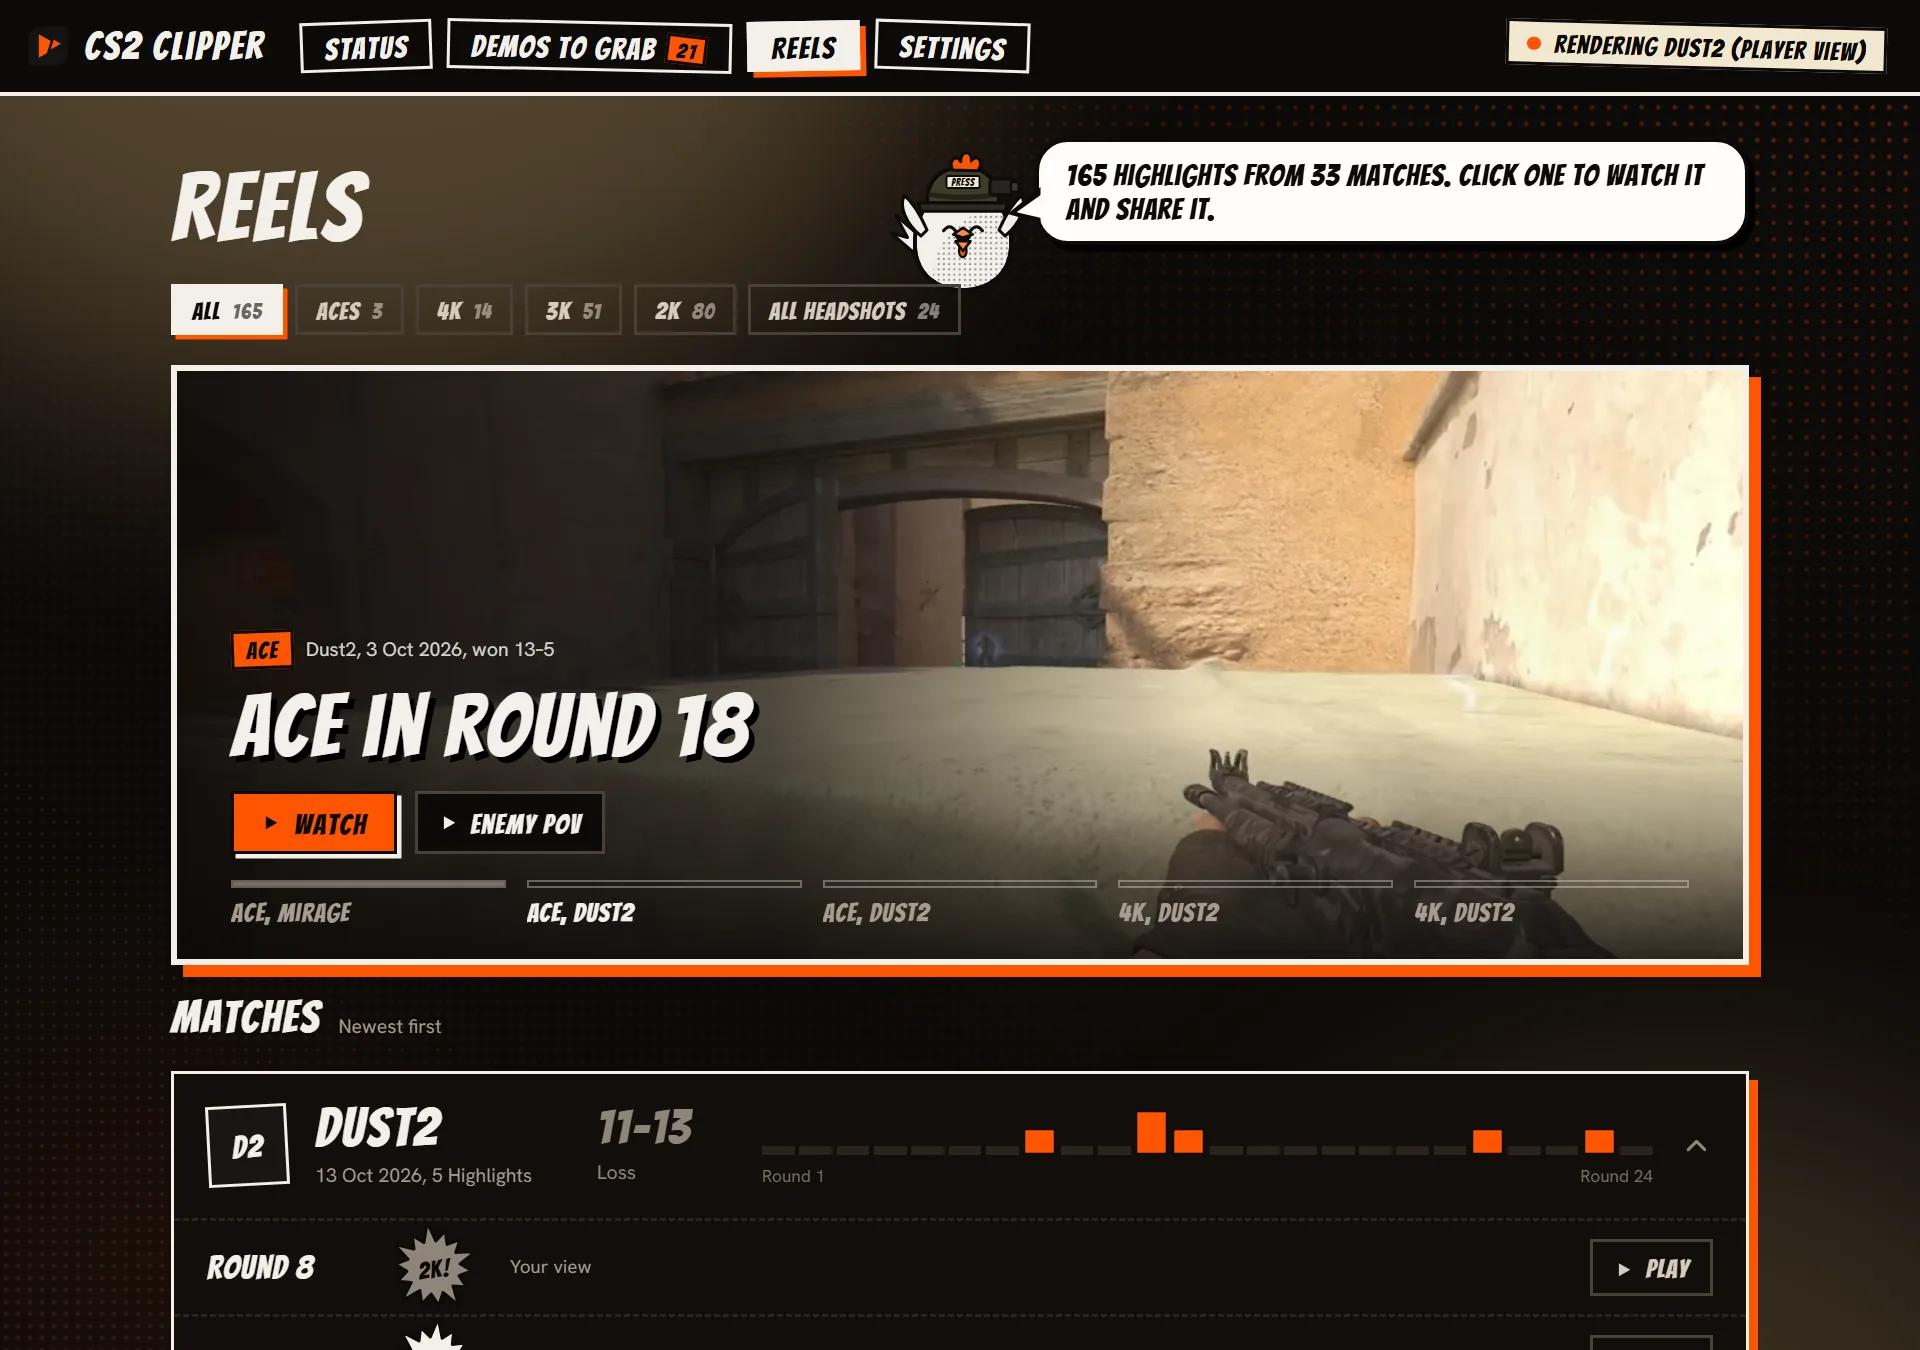
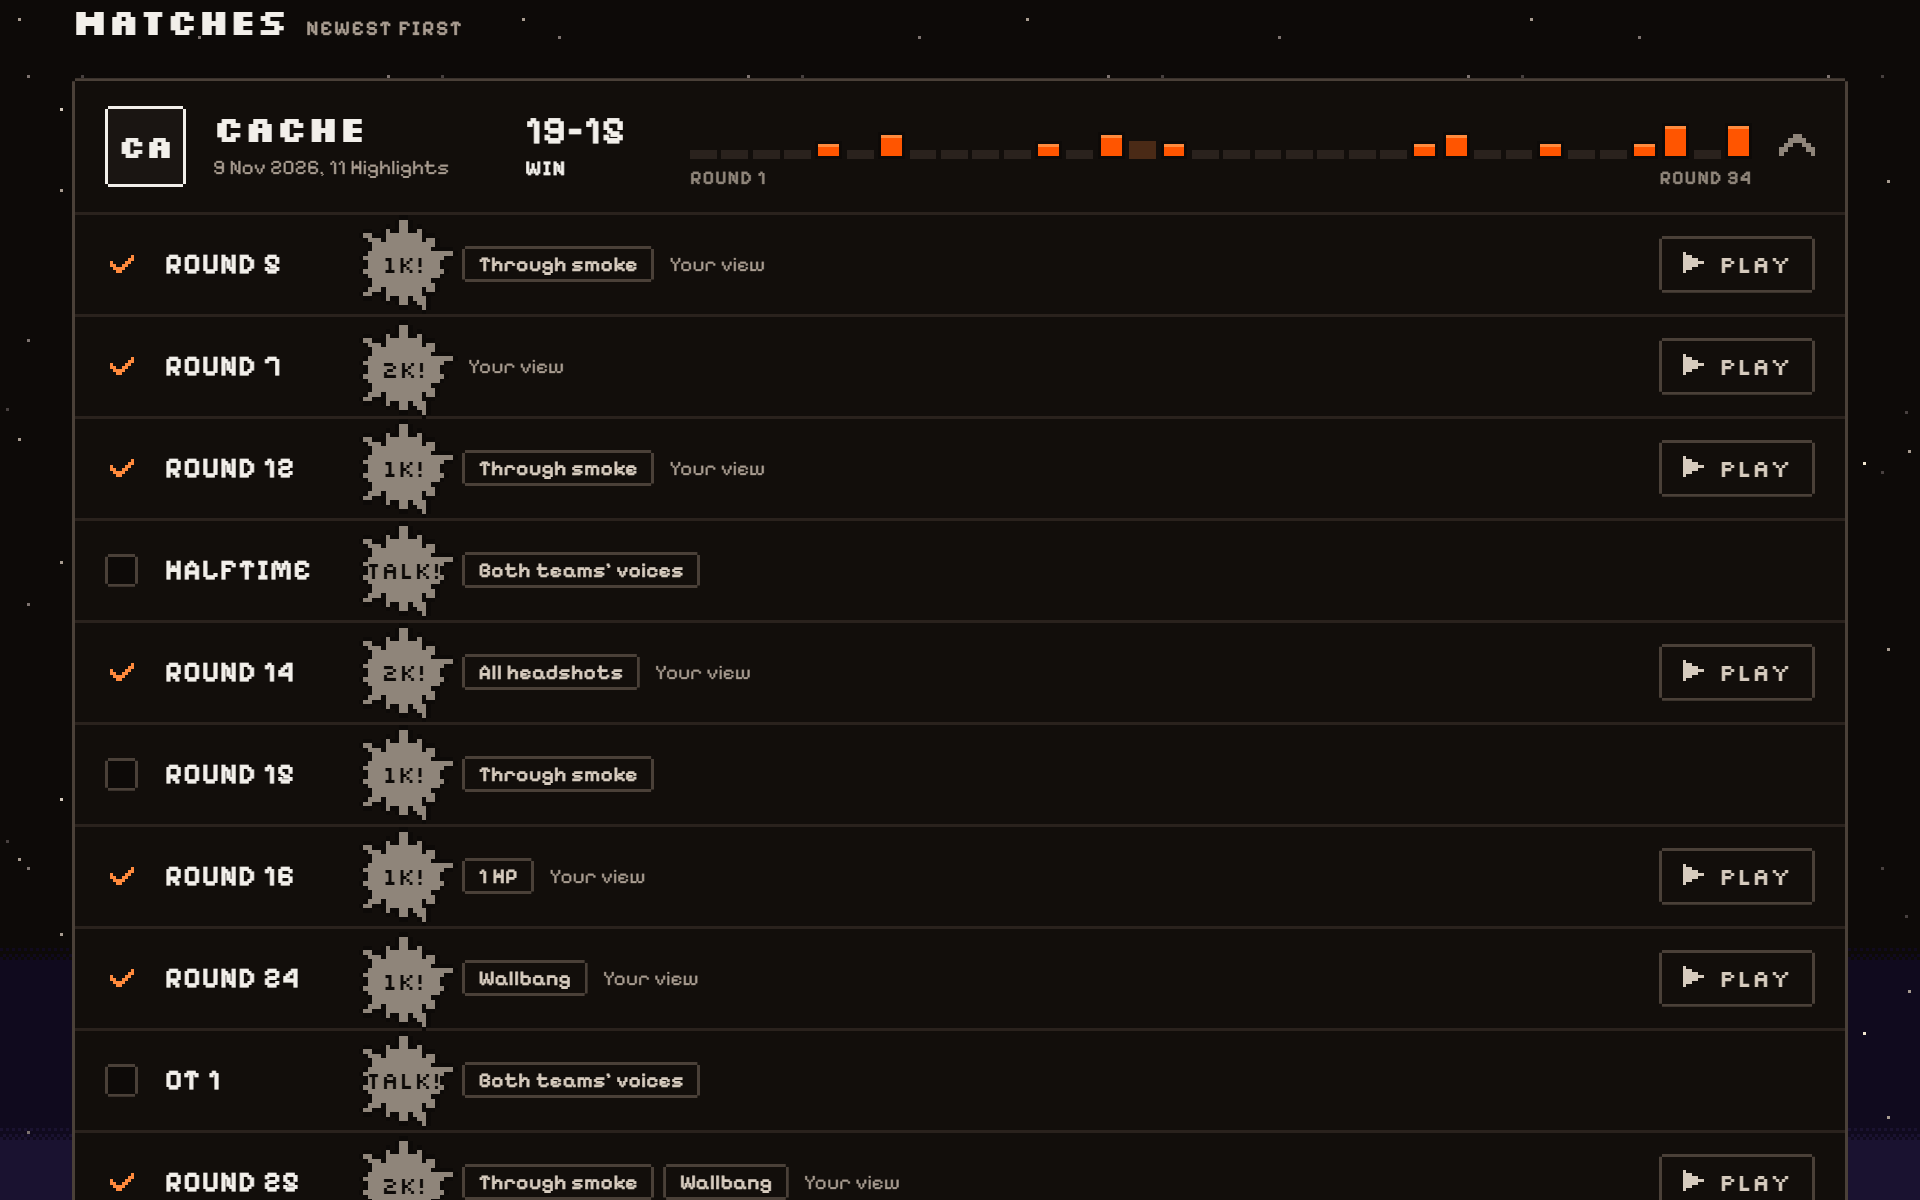
readme: every picture in the 16-bit look, and a Stats shot
The banner and the How it works diagram are drawn with the app's own CSS,
fonts and Nugget, and the diagram gains the Pick step: Play, Grab, Analyze,
Pick, Record, Reels. Status, Demos to grab and Reels are retaken from the
real pages over a copy of this PC's data, and a new Stats shot shows a match
with made-up player names. The text covers Stats and Replay, the test count
and the new files.

diff --git a/README.md b/README.md
@@ -1,5 +1,5 @@
 <p align="center">
-  <img src="docs/images/banner.webp" alt="CS2 Clipper: hands-off highlight Reels from your FACEIT Demos" width="100%">
+  <img src="docs/images/banner.webp" alt="CS2 Clipper: highlight Reels from your FACEIT Demos" width="100%">
 </p>
 
 <p align="center">
@@ -68,30 +68,40 @@ the update.
   all-headshot rounds. Click one to watch it; from the player, **Copy file** (paste it straight into Discord),
   **Export for Discord** (under the 20 MB free limit), **9:16** for TikTok, Shorts and Reels, or **Show in folder**.
   Exports open on a title card with your name, the map and the round. Reels open on your phone too.
+- **Shows every match's numbers.** Each match on the Reels page has **Stats**: K/D/A, ADR, HS%, KAST, opening
+  kills, trades, flashes, utility damage, Clutches and 2K–5K rounds for all ten players, FACEIT's own numbers first,
+  with arrows against your last 20 matches. The round timeline links each kill to its Reel, and **Replay this
+  round** draws the round on the map's radar.
 
 ## A look inside
 
 <p align="center">
-  <img src="docs/images/status.webp" alt="Status: a Dust2 Demo mid-render, Found then Making clips with the time left, and the latest Highlights" width="100%">
+  <img src="docs/images/status.webp" alt="Status: the night round on its monitor while a Cache Demo records its Enemy POV, the rundown at Making clips with the time left, and the latest Highlights" width="100%">
   <br>
   <sub><b>Status</b>: what the app is doing right now, the latest Highlights, and whether this PC is ready.</sub>
 </p>
 
 <table>
   <tr>
-    <td width="50%"><img src="docs/images/demos.webp" alt="Demos to grab: recent FACEIT matches with their Highlights and the days left on each Demo link, and each match's numbers under its map"></td>
-    <td width="50%"><img src="docs/images/reels.webp" alt="Reels: every Highlight in a carousel, with filters, and each match's rounds"></td>
+    <td width="50%"><img src="docs/images/demos.webp" alt="Demos to grab: recent FACEIT matches with their Highlights, each match's numbers under its map, and the days left on each Demo link"></td>
+    <td width="50%"><img src="docs/images/reels.webp" alt="Reels: a match's rounds worth clipping, the recorded ones ticked with Play, the rest and the halftime talk waiting for a tick"></td>
   </tr>
   <tr>
     <td align="center"><sub><b>Demos to grab</b>: matches worth downloading, and how long each link lasts.</sub></td>
-    <td align="center"><sub><b>Reels</b>: every Highlight, to watch from either view and to share.</sub></td>
+    <td align="center"><sub><b>Reels</b>: tick the rounds to clip, then watch each Highlight from either view and share it.</sub></td>
   </tr>
 </table>
+
+<p align="center">
+  <img src="docs/images/stats.webp" alt="Stats for a Mirage match: your numbers against your last 20 matches, and all ten players with FACEIT's line beside the Demo's" width="100%">
+  <br>
+  <sub><b>Stats</b>: every match's numbers for all ten players, FACEIT's first, and each round's kills linked to their Reels.</sub>
+</p>
 
 ## How it works
 
 <p align="center">
-  <img src="docs/images/pipeline.webp" alt="You play and download the Demo; the app analyzes, scores, records and joins the Reels" width="100%">
+  <img src="docs/images/pipeline.webp" alt="You play and grab the Demo; the app analyzes it; you tick the rounds; the app records them and joins the Reels" width="100%">
 </p>
 
 Each Demo moves through the same steps; Status sums them up as Found, Making clips (with about how long is left)
@@ -102,7 +112,7 @@ open.
 | --- | --- |
 | **Spotted** | A finished FACEIT Demo lands in Downloads and moves into your clips folder. |
 | **Unpacked** | The `.dem.zst` FACEIT serves becomes a `.dem`. |
-| **Analyzed** | [csda](https://github.com/akiver/cs-demo-analyzer) reads every round; the app keeps what it needs as `analyses\<checksum>.json`. |
+| **Analyzed** | [csda](https://github.com/akiver/cs-demo-analyzer) reads every round; the app keeps what it needs as `analyses\<checksum>.json`, with the match's stats beside it. |
 | **Scored** | Each round with your Frags becomes a Highlight. The ones worth clipping wait on the Reels page for you to pick, and a toast says the match is ready; **Clip** sends the Demo on with your picks. |
 | **Rendering** | HLAE starts CS2 and a console script ([`hlae_plan.py`](clipper/hlae_plan.py)) records each Sequence at its exact ticks, one view per CS2 launch: your view first, whose Reels are joined and announced straight away, then the Enemy POV (or only the view Settings picks). CS2 and its encoder run below normal priority. |
 | **Joined** | FFmpeg joins each Highlight's Clips into one Reel per view. |
@@ -146,6 +156,8 @@ with one click, keeping your settings, Demos and Reels. What changed in each ver
 5. **Watch** with the toast's **Watch**, on the Reels page, or open the files: a folder per match in
    `<clips folder>\library\videos`, like `2026-10-12 Dust2 13-9\ACE Dust2 R9 you.mp4`. Exports go to
    `<clips folder>\Exports`.
+6. **Look back** with **Stats** under any match on the Reels page, and **Replay this round** to see a round on
+   the radar.
 
 > [!TIP]
 > A CS2 update can break HLAE until advancedfx ships a fix. Status checks for new HLAE releases every day
@@ -160,7 +172,7 @@ git clone https://github.com/MohammadAM02/cs2-clipper
 cd cs2-clipper
 uv sync
 uv run clipper     # the app: tray, window and pages
-uv run pytest      # over 1,000 tests; none needs CS2, HLAE or FACEIT
+uv run pytest      # over 1,600 tests; none needs CS2, HLAE or FACEIT
 ```
 
 Run from source, the app needs your own FACEIT Data API key in Settings → You; installed builds ship one.
@@ -186,7 +198,8 @@ version's section of [CHANGELOG.md](CHANGELOG.md).
 
 ```text
 clipper/              the app
-├── pages/            Status, Demos to grab, Reels and Settings: plain HTML, CSS and JS
+├── pages/            Status, Demos to grab, Reels, Stats, Replay and Settings: plain HTML, CSS and JS
+│   └── fonts/        Silkscreen and Pixelify Sans, the 16-bit lettering
 ├── worker.py         moves each Demo through the steps
 ├── intake.py         takes finished Demos from Downloads
 ├── analysis.py       the only code that reads csda's output
@@ -195,6 +208,9 @@ clipper/              the app
 ├── hlae_plan.py      Sequences become the console script CS2 follows
 ├── hlae_render.py    one Render Job: CS2 through HLAE, watched to the end
 ├── join.py           Clips become one Reel per view
+├── stats.py          what each player did in a Demo, worked out from its events
+├── replay.py         a round's positions, once a second, for Replay
+├── radar.py          each map's radar, read from the installed CS2
 ├── alerts.py         match alerts from the FACEIT Data API
 ├── update.py         finds a newer release on GitHub and installs it with one click
 ├── app.py            tray, window, web server and worker, together
@@ -224,10 +240,12 @@ CS2 Clipper is built on open-source work:
   window and installer started from it.
 - [faceitperf](https://github.com/iffypixy/faceitperf) by iffypixy (MIT): the Rating 2.0 estimate.
 - [FFmpeg](https://ffmpeg.org), in [gyan.dev's builds](https://www.gyan.dev/ffmpeg/builds/), joins the Clips.
+- [Silkscreen](https://github.com/googlefonts/silkscreen) and [Pixelify Sans](https://github.com/eifetx/Pixelify-Sans)
+  (SIL Open Font License) letter every page.
 
 ## License
 
 [MIT](LICENSE). The code adapted from Aegis, CS Demo Manager and faceitperf keeps its authors' MIT notices in
-the files it lives in.
+the files it lives in, and the fonts keep their Open Font License beside them in `clipper/pages/fonts`.
 
 <sub>Not affiliated with Valve or FACEIT. Counter-Strike 2 is a trademark of Valve Corporation.</sub>
